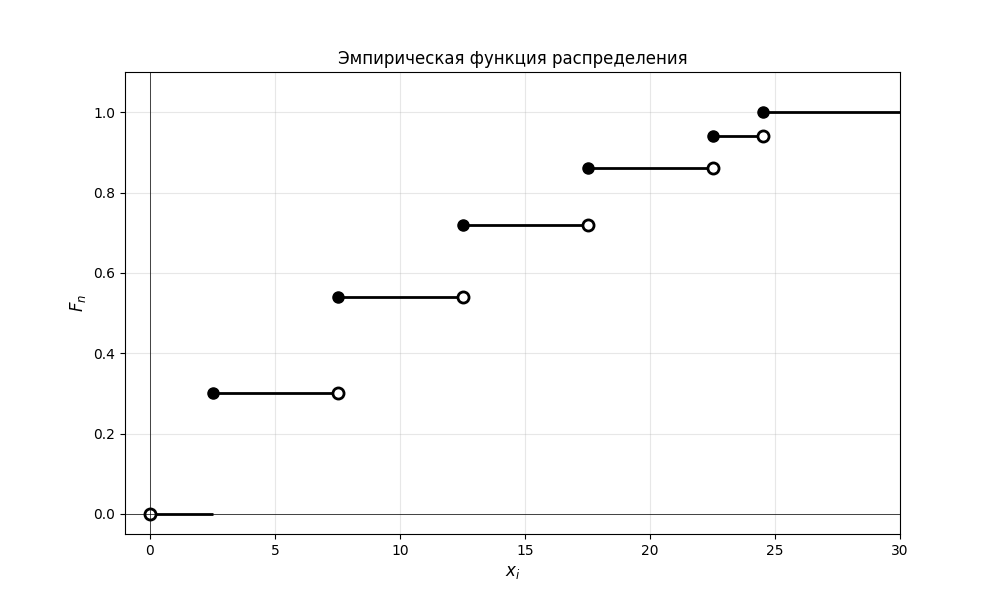
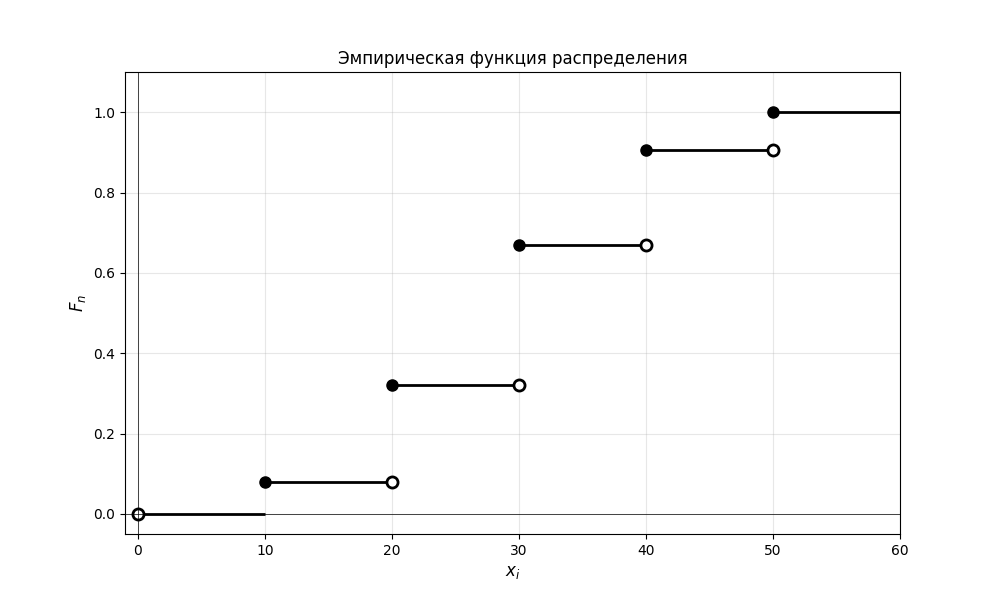
aboba fix

diff --git a/images/efr.py b/images/efr.py
@@ -1,7 +1,7 @@
 import matplotlib.pyplot as plt
 
-x_i = [2.5, 7.5, 12.5, 17.5, 22.5, 24.5]
-f_n = [15 / 50, 27 / 50, 36 / 50, 43 / 50, 47 / 50, 1]
+x_i = [10, 20, 30, 40, 50]
+f_n = [0.08, 0.32, 0.67, 0.905, 1.0]
 
 plt.figure(figsize=(10, 6))
 
@@ -17,7 +17,7 @@ for i in range(len(x_i)):
             linewidth=2,
         )
     else:
-        plt.hlines(y=f_n[i], xmin=x_i[i], xmax=30, colors="black", linewidth=2)
+        plt.hlines(y=f_n[i], xmin=x_i[i], xmax=60, colors="black", linewidth=2)
 
 for i in range(len(x_i)):
     plt.plot(
@@ -53,7 +53,7 @@ plt.plot(
 plt.xlabel("$x_i$", fontsize=12)
 plt.ylabel("$F_n$", fontsize=12)
 plt.title("Эмпирическая функция распределения")
-plt.xlim(-1, 30)
+plt.xlim(-1, 60)
 plt.ylim(-0.05, 1.1)
 plt.grid(True, alpha=0.3)
 plt.axhline(y=0, color="black", linewidth=0.5)
